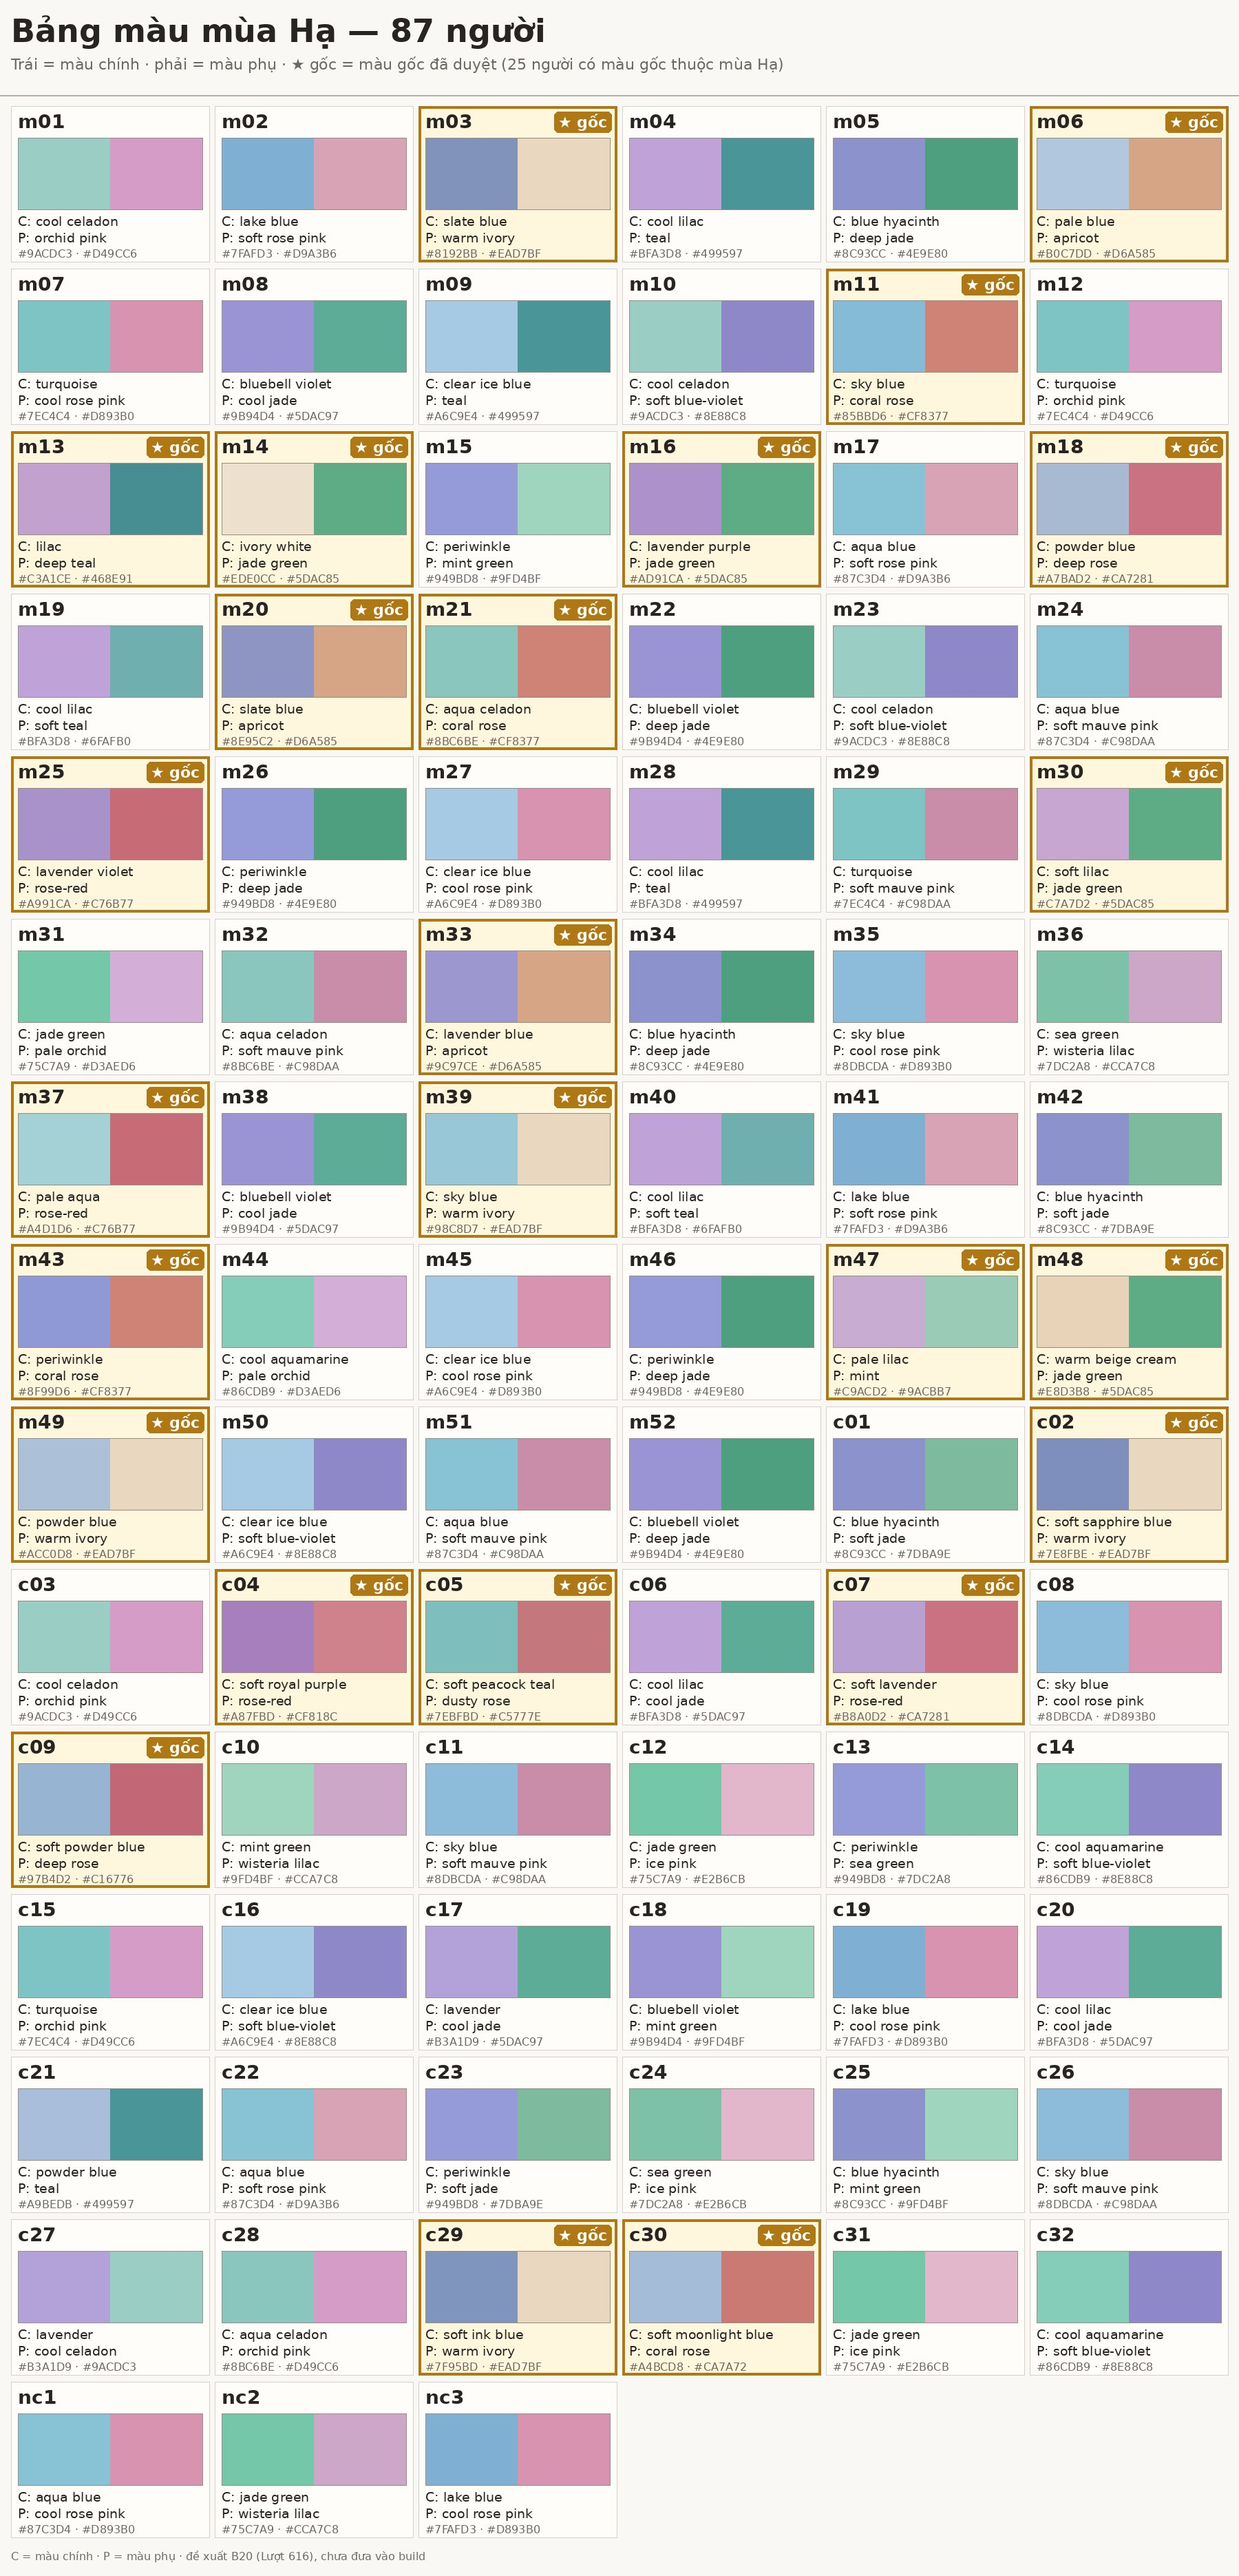
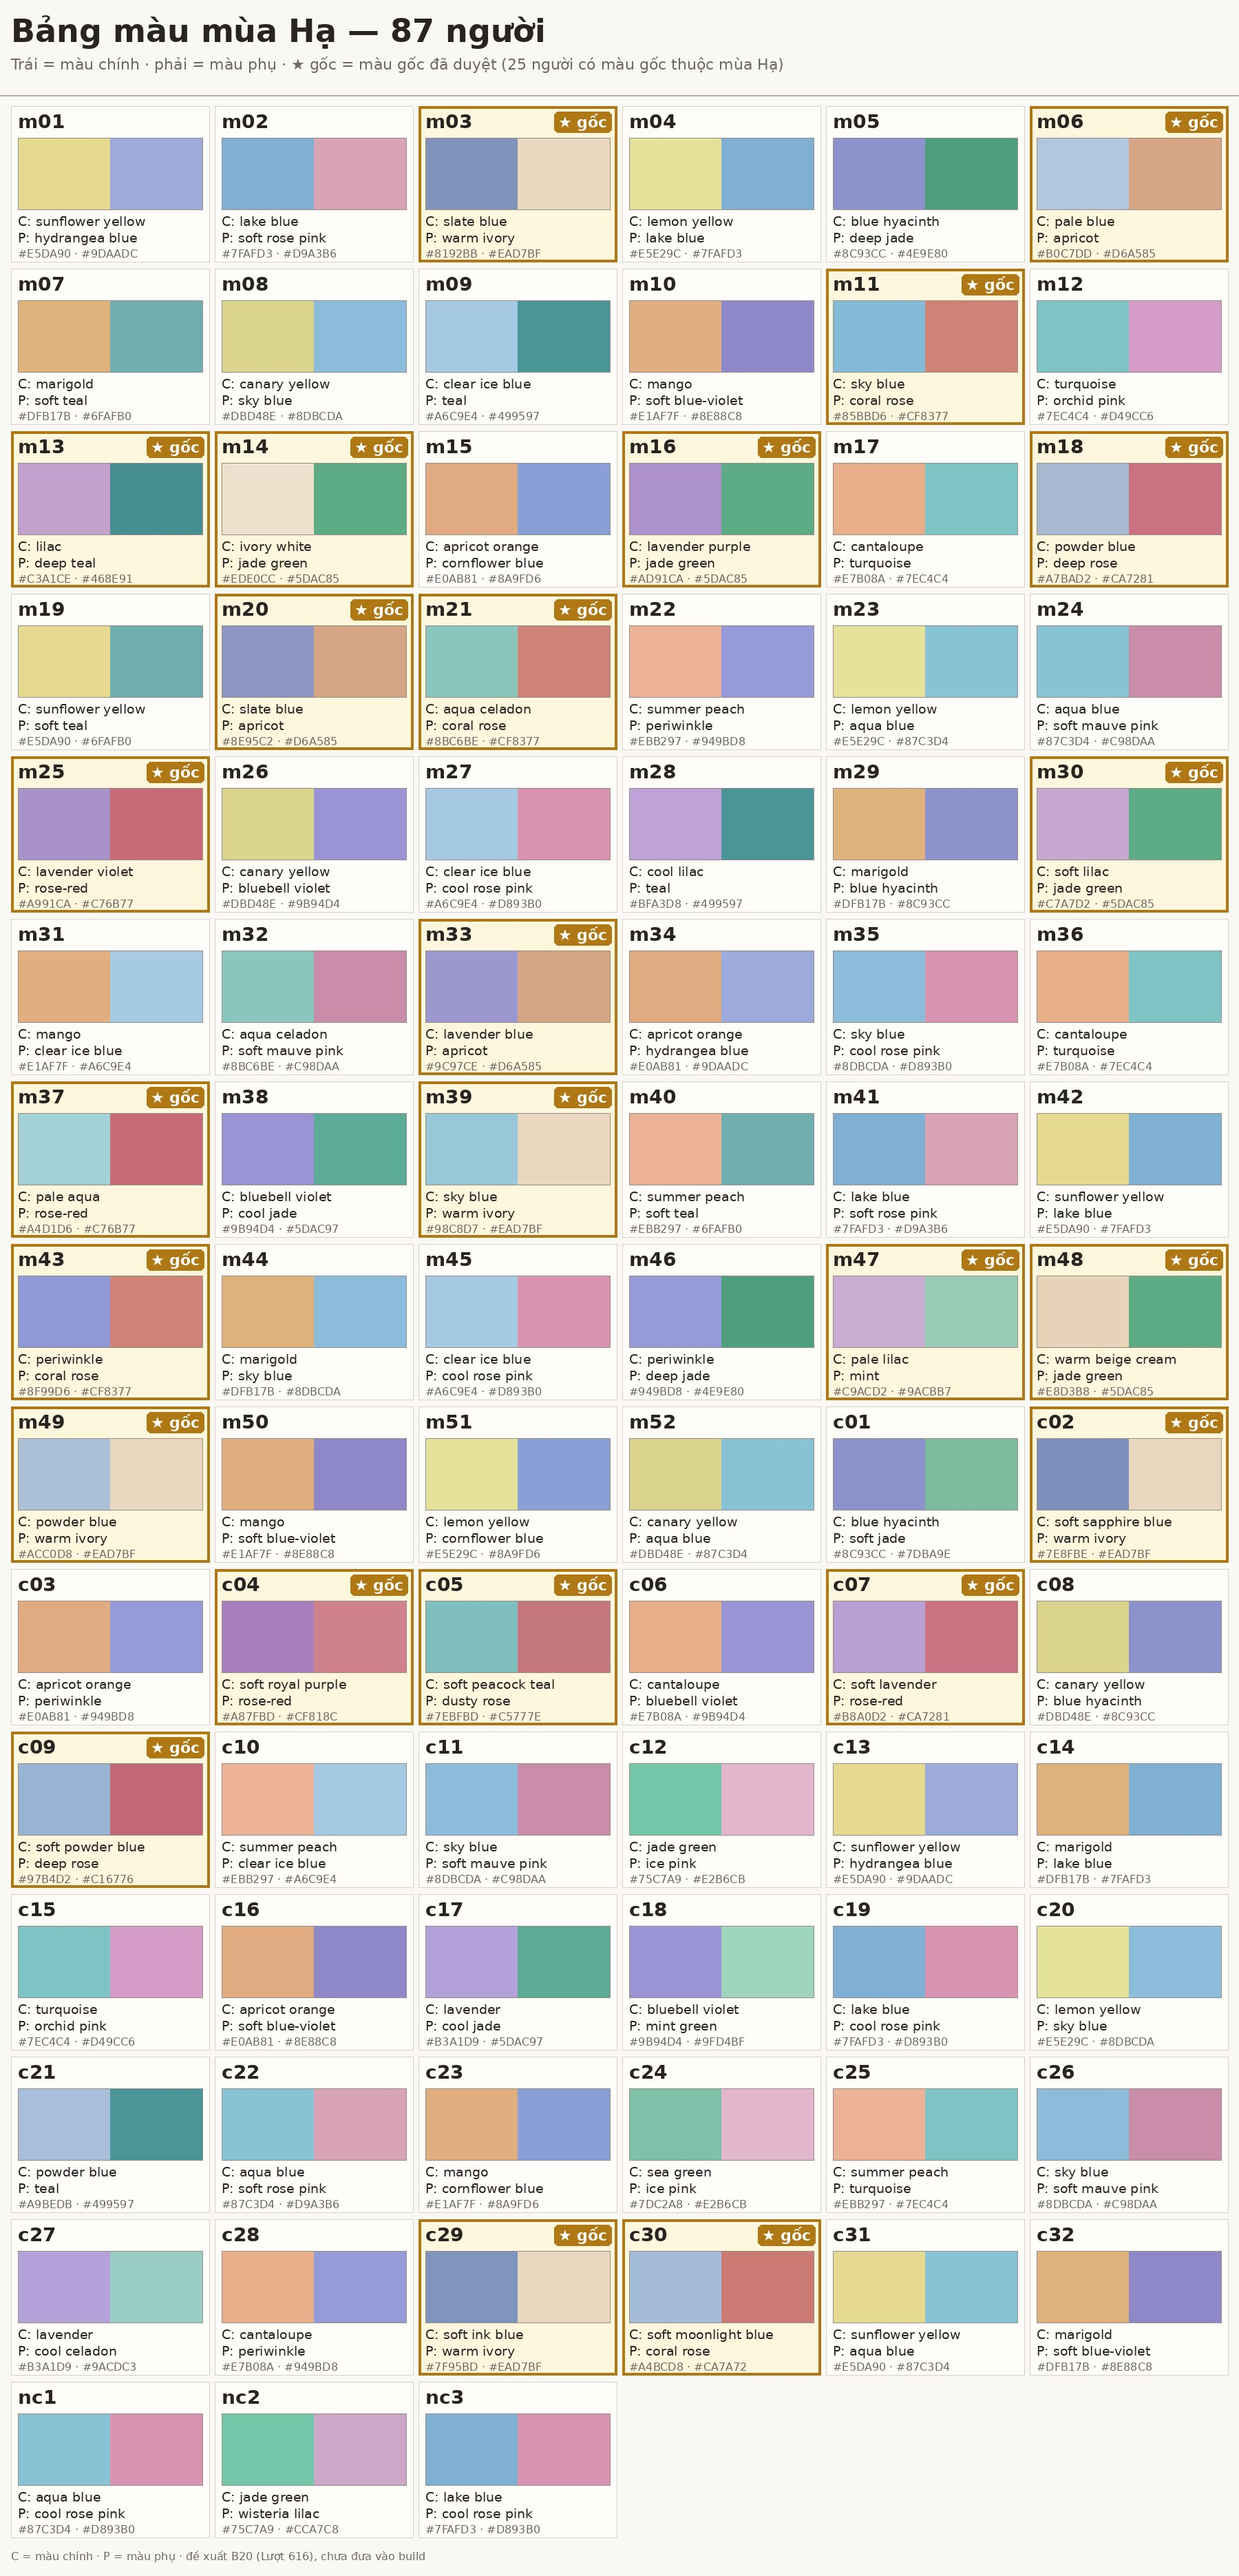
Lượt 752: Hạ a little yellow — 34/87 Hạ mains light summer yellow/orange (ha_warm.py, seasons.summer_warm), check_seasons 0 FAIL, season_ha + season_ha_old_new sheets
Claude-Session: https://claude.ai/code/session_01PEhRbxQAS4sqEvJjdStdLX

diff --git a/dev/art/palettes3/ha_warm.py b/dev/art/palettes3/ha_warm.py
@@ -1,0 +1,90 @@
+"""Owner Lượt 752: Hạ (summer) was almost all blue / aqua / lilac -> give Hạ "a little yellow".
+Re-picks the MAIN of about 39 % of the Hạ palettes (all 87 rows counted, ★ roots included) to a light, fresh
+summer yellow / orange (lemon / sunflower / canary yellow, marigold, mango, apricot orange, tangerine, cantaloupe,
+summer peach) at the Xuân+Hạ tone level (main C ~0.08, L 0.76-0.90 — yellows have to be light to read yellow and
+not olive). Season rule: seasons.summer_warm (a warm Hạ needs a clearly cool secondary — blue / aqua / teal /
+violet — so it differs from Xuân, and Lmin >= 0.65 / main L >= 0.76 so it is lighter and fresher than Thu).
+The secondary is kept when it is already such a cool colour and contrasts; otherwise (pink / jade / dark teal,
+which clash with a yellow-orange main or make it read Xuân / Thu) it is replaced by a cool blue / aqua / violet.
+No gold: hue 80-100° with chroma > 0.06 and anything near royal yellow #EFBD69 stay banned (B21) — the yellows
+used are the clean lemon side (hue 100-107°), the oranges stay below 72°.
+Not touched: ★ root pairs, Xuân / Thu / Đông, the other Hạ rows.
+Same rules as check_seasons.py. ONE-SHOT: run once, then check_seasons.py, then make_season_sheets_by_season.py."""
+import json, os, sys
+sys.path.insert(0, os.path.dirname(os.path.abspath(__file__)))
+from colourlib import *
+from seasons import SEASONS, target_ok, summer_warm, temp
+from gen_palettes3 import load_p1, contrast_ok, lookalike
+from gen_seasons import POOL, season_contrast
+from xuan_pink import lch2hex, tone_ok
+
+ROOT = os.path.abspath(os.path.join(os.path.dirname(__file__), '..', '..', '..'))
+F = os.path.join(ROOT, 'dev/art/face-common/palettes_season.json')
+SHARE = 0.39            # wanted share of warm yellow / orange Hạ mains (all rows)
+
+WARM = [(n, lch2hex(L, C, H), kind) for n, L, C, H, kind in (
+    ("sunflower yellow", 0.88, 0.095, 101, 'Y'), ("lemon yellow", 0.90, 0.090, 106, 'Y'),
+    ("canary yellow", 0.86, 0.091, 103.5, 'Y'), ("marigold", 0.79, 0.088, 71, 'O'),
+    ("mango", 0.79, 0.086, 65, 'O'), ("apricot orange", 0.78, 0.084, 59, 'O'),
+    ("tangerine", 0.76, 0.090, 52, 'O'), ("cantaloupe", 0.80, 0.082, 56, 'O'),
+    ("summer peach", 0.81, 0.076, 47, 'O'))]
+WARM = [w for w in WARM if tone_ok(w[1])]
+
+def ids_of(d): return [k for k in d if not k.startswith('_') and k not in ('status', 'root_season_counts')]
+
+def main():
+    d = json.load(open(F)); roots = load_p1(); ids = ids_of(d)
+    cool_secs = [(n, h) for n, h, r in POOL if not is_white(h) and temp(h) <= -0.45 and tone_ok(h)]
+    want = round(SHARE * len(ids))
+    # rows that can be changed; prefer rows whose secondary is already cool enough (secondary kept)
+    free = [k for k in ids if not d[k]['ha'].get('root')]
+    pairs = {}
+    for i, k in enumerate(ids):
+        for se in SEASONS: pairs.setdefault((d[k][se]['main'], d[k][se]['sec']), []).append((i, se))
+    use, done, log = {}, [], []
+    for pos, k in enumerate(ids):
+        if k not in free: continue
+        i = ids.index(k); old = dict(d[k]['ha'])
+        # even spread: convert when behind the running quota (a bit earlier when the secondary can stay)
+        sec_cool = temp(old['sec_hex']) <= -0.45 and oklch(old['sec_hex'])[0] >= 0.65
+        quota = SHARE * (pos + 1) + (1.0 if sec_cool else 0.0)
+        if len(done) >= want or len(done) >= quota: continue
+        rdE = dE(roots[k]['main_hex'], roots[k]['sec_hex'])
+        near = [(d[ids[j]]['ha'], abs(j - i)) for j in (i - 2, i - 1, i + 1, i + 2) if 0 <= j < len(ids)]
+        own = [d[k][se] for se in SEASONS if se != 'ha']
+        prev_kind = [w[2] for w in WARM if any(q['main'] == w[0] for q, g in near)]
+        best = None
+        for m in WARM:
+            if any(g == 1 and q['main'] == m[0] for q, g in near): continue
+            for s in [(old['sec'], old['sec_hex'])] + cool_secs:
+                if s[0] == m[0]: continue
+                mh, sh = m[1], s[1]
+                pu = [p for p in pairs.get((m[0], s[0]), []) if not (p[0] == i and p[1] == 'ha')]
+                if len(pu) >= 2 or any(abs(p[0] - i) < 10 for p in pu): continue
+                if not (summer_warm(mh, sh) and target_ok('ha', mh, sh) and contrast_ok(mh, sh, rdE)
+                        and season_contrast(mh, sh) and tone_ok(sh)): continue
+                if any(lookalike((mh, sh), (q['main_hex'], q['sec_hex']), g) for q, g in near): continue
+                if any(lookalike((mh, sh), (q['main_hex'], q['sec_hex']), 1) for q in own): continue
+                c = (0 if s[0] == old['sec'] else 1.0) + 0.5 * use.get(m[0], 0) + 0.25 * use.get('s:' + s[0], 0)
+                c += 0.4 * (m[2] in prev_kind)                       # alternate yellow / orange down the column
+                c += 0.15 * abs(oklch(sh)[0] - 0.74) / 0.05           # secondary near the Hạ tone level
+                c += 0.3 * (m[2] != 'Y') * (sum(1 for x in done if d[x]['ha']['main'] in YN) < 0.4 * len(done))
+                if best is None or c < best[0]: best = (c, m, s)
+        if best is None: log.append(f'{k}: no candidate, kept'); continue
+        _, m, s = best
+        pairs.get((old['main'], old['sec']), []).remove((i, 'ha'))
+        d[k]['ha'] = dict(main=m[0], main_hex=m[1], sec=s[0], sec_hex=s[1])
+        pairs.setdefault((m[0], s[0]), []).append((i, 'ha'))
+        use[m[0]] = use.get(m[0], 0) + 1; use['s:' + s[0]] = use.get('s:' + s[0], 0) + 1
+        done.append(k)
+        log.append(f"{k}: {old['main']} + {old['sec']}  ->  {m[0]} {m[1]} + {s[0]} {s[1]}"
+                   + ('' if s[0] == old['sec'] else '  (secondary changed)'))
+    d['_note_ha'] = ('Owner Lượt 752: about 39 % of Hạ mains re-picked to light summer yellow / orange by '
+                     'dev/art/palettes3/ha_warm.py, with a cool secondary (rule seasons.summer_warm). ★ roots unchanged.')
+    json.dump(d, open(F, 'w'), ensure_ascii=False, indent=1)
+    print('\n'.join(log)); print(f'{len(done)} Hạ palettes changed (wanted {want})')
+
+YN = {w[0] for w in WARM if w[2] == 'Y'}
+
+if __name__ == '__main__':
+    main()

diff --git a/dev/art/palettes3/make_season_old_new.py b/dev/art/palettes3/make_season_old_new.py
@@ -1,5 +1,6 @@
 """Before / after review sheets for owner Lượt 741 (Xuân -> mostly pink) and Lượt 742/744 (one tone level).
   python3 make_season_old_new.py xuan  <before.json>   -> season_xuan_old_new.jpg (old vs new Xuân, every person)
+  python3 make_season_old_new.py ha    <before.json>   -> season_ha_old_new.jpg (old vs new Hạ, owner Lượt 752)
   python3 make_season_old_new.py tone  <before.json>   -> season_tone_old_new.jpg (4 seasons before/after tone change,
                                                           C/L numbers per season, ★ roots: gốc cũ | gốc chỉnh tông)
 After = the current dev/art/face-common/palettes_season.json. Before = an older copy of it (git show <rev>:...).
@@ -41,16 +42,16 @@ def stats(d, se):
         out[r] = (st.mean(oklch(h)[1] for h in hs), st.mean(oklch(h)[0] for h in hs))
     return out
 
-def sheet_xuan(old, new):
+def sheet_xuan(old, new, se='xuan', title='Mùa Xuân — cũ (cam/đào) → mới (chủ yếu hồng)', out='season_xuan_old_new.jpg'):
     ids = ids_of(new); COLS, CW, CH, PAD, HEAD = 6, 300, 150, 10, 110
     rows = (len(ids) + COLS - 1) // COLS; W = PAD * 2 + COLS * CW; H = HEAD + rows * CH + 30
     im = Image.new('RGB', (W, H), BG); dr = ImageDraw.Draw(im)
-    dr.text((PAD + 4, 14), 'Mùa Xuân — cũ (cam/đào) → mới (chủ yếu hồng)', font=fnt(38, True), fill=INK)
+    dr.text((PAD + 4, 14), title, font=fnt(38, True), fill=INK)
     dr.text((PAD + 4, 66), 'Mỗi ô: hàng trên = cũ, hàng dưới = mới · trái = màu chính, phải = màu phụ · ★ gốc giữ nguyên',
             font=fnt(20), fill=SUB)
     for i, k in enumerate(ids):
         r, c = divmod(i, COLS); x, y = PAD + c * CW, HEAD + r * CH
-        o, n = old[k]['xuan'], new[k]['xuan']; root = bool(n.get('root')); same = (o['main_hex'], o['sec_hex']) == (n['main_hex'], n['sec_hex'])
+        o, n = old[k][se], new[k][se]; root = bool(n.get('root')); same = (o['main_hex'], o['sec_hex']) == (n['main_hex'], n['sec_hex'])
         dr.rectangle([x + 3, y + 3, x + CW - 3, y + CH - 3], fill=(255, 246, 222) if root else (255, 253, 249),
                      outline=STAR if root else (214, 208, 200), width=3 if root else 1)
         dr.text((x + 10, y + 7), k + ('  ★ gốc' if root else ('  (giữ)' if same else '')), font=fnt(19, True), fill=STAR if root else INK)
@@ -60,7 +61,10 @@ def sheet_xuan(old, new):
             pair(dr, x + 48, yy, 110, 46, p['main_hex'], p['sec_hex'])
             dr.text((x + 164, yy + 2), fit(dr, p['main'], fnt(15), CW - 172), font=fnt(15), fill=INK)
             dr.text((x + 164, yy + 24), fit(dr, '+ ' + p['sec'], fnt(15), CW - 172), font=fnt(15), fill=SUB)
-    save(im, 'season_xuan_old_new.jpg')
+    save(im, out)
+
+def sheet_ha(old, new):
+    sheet_xuan(old, new, 'ha', 'Mùa Hạ — cũ (toàn xanh/tím) → mới (thêm vàng / cam mùa hè)', 'season_ha_old_new.jpg')
 
 def sheet_tone(old, new):
     ids = ids_of(new)
@@ -109,4 +113,4 @@ def sheet_tone(old, new):
 if __name__ == '__main__':
     new = json.load(open(os.path.join(ROOT, 'dev/art/face-common/palettes_season.json')))
     old = json.load(open(sys.argv[2]))
-    (sheet_xuan if sys.argv[1] == 'xuan' else sheet_tone)(old, new)
+    dict(xuan=sheet_xuan, ha=sheet_ha, tone=sheet_tone)[sys.argv[1]](old, new)

diff --git a/dev/art/palettes3/seasons.py b/dev/art/palettes3/seasons.py
@@ -10,6 +10,10 @@ CLASSIFY (root palettes):
 TARGET (generated palettes: same rule plus margins so each reads clearly as its season):
   XUÂN: w >= +0.30, Lmin >= 0.68, no olive, max chroma >= 0.07 (clear), secondary not a strong cool (warmth >= -0.45)
   HẠ  : w <= -0.15, Lmin >= 0.62, both chroma <= 0.10, dE <= 0.24 (soft), secondary not peach/coral (warmth <= 0.50)
+        or (owner Lượt 752, "Hạ a little yellow") SUMMER-WARM: a light fresh yellow / orange main (hue 40–110°,
+        L >= 0.76, so lighter and fresher than Thu) with a clearly cool secondary (warmth <= -0.45: blue / aqua /
+        teal / violet, so it never passes the Xuân target, whose secondary must be >= -0.45), Lmin >= 0.65 (Thu
+        needs <= 0.64), both chroma <= 0.10, dE <= 0.26. Root classification (classify) is unchanged.
   THU : w >= +0.30, Lmin <= 0.64 (a deep/rich colour), main lightness <= 0.80, secondary no colder than teal (warmth >= -0.62)
   ĐÔNG: w <= -0.15, Lmin <= 0.58 or a white/ivory with dE >= 0.30; dE >= 0.25 (clear, strong)
 """
@@ -34,8 +38,16 @@ def classify(m, s):
         return 'xuan' if x['Lmin'] >= 0.66 and not (_olive(m) or _olive(s)) else 'thu'
     return 'dong' if (x['Lmin'] <= 0.58 or x['dE'] >= 0.30) else 'ha'
 
+def summer_warm(m, s):
+    """Hạ with a light yellow / orange main and a cool secondary (owner Lượt 752)"""
+    if is_white(m) or is_white(s) or temp(m) <= 0: return False
+    x = metrics(m, s); H = oklch(m)[2]
+    return (40 <= H <= 110 and x['Lmain'] >= 0.76 and x['Lmin'] >= 0.65 and x['Cmax'] <= 0.10 and x['dE'] <= 0.26
+            and temp(s) <= -0.45)
+
 def target_ok(season, m, s):
     x = metrics(m, s)
+    if season == 'ha' and summer_warm(m, s): return True
     if classify(m, s) != season: return False
     if season == 'xuan':
         return x['w'] >= 0.30 and x['Lmin'] >= 0.68 and x['Cmax'] >= 0.07 and temp(s) >= -0.45
